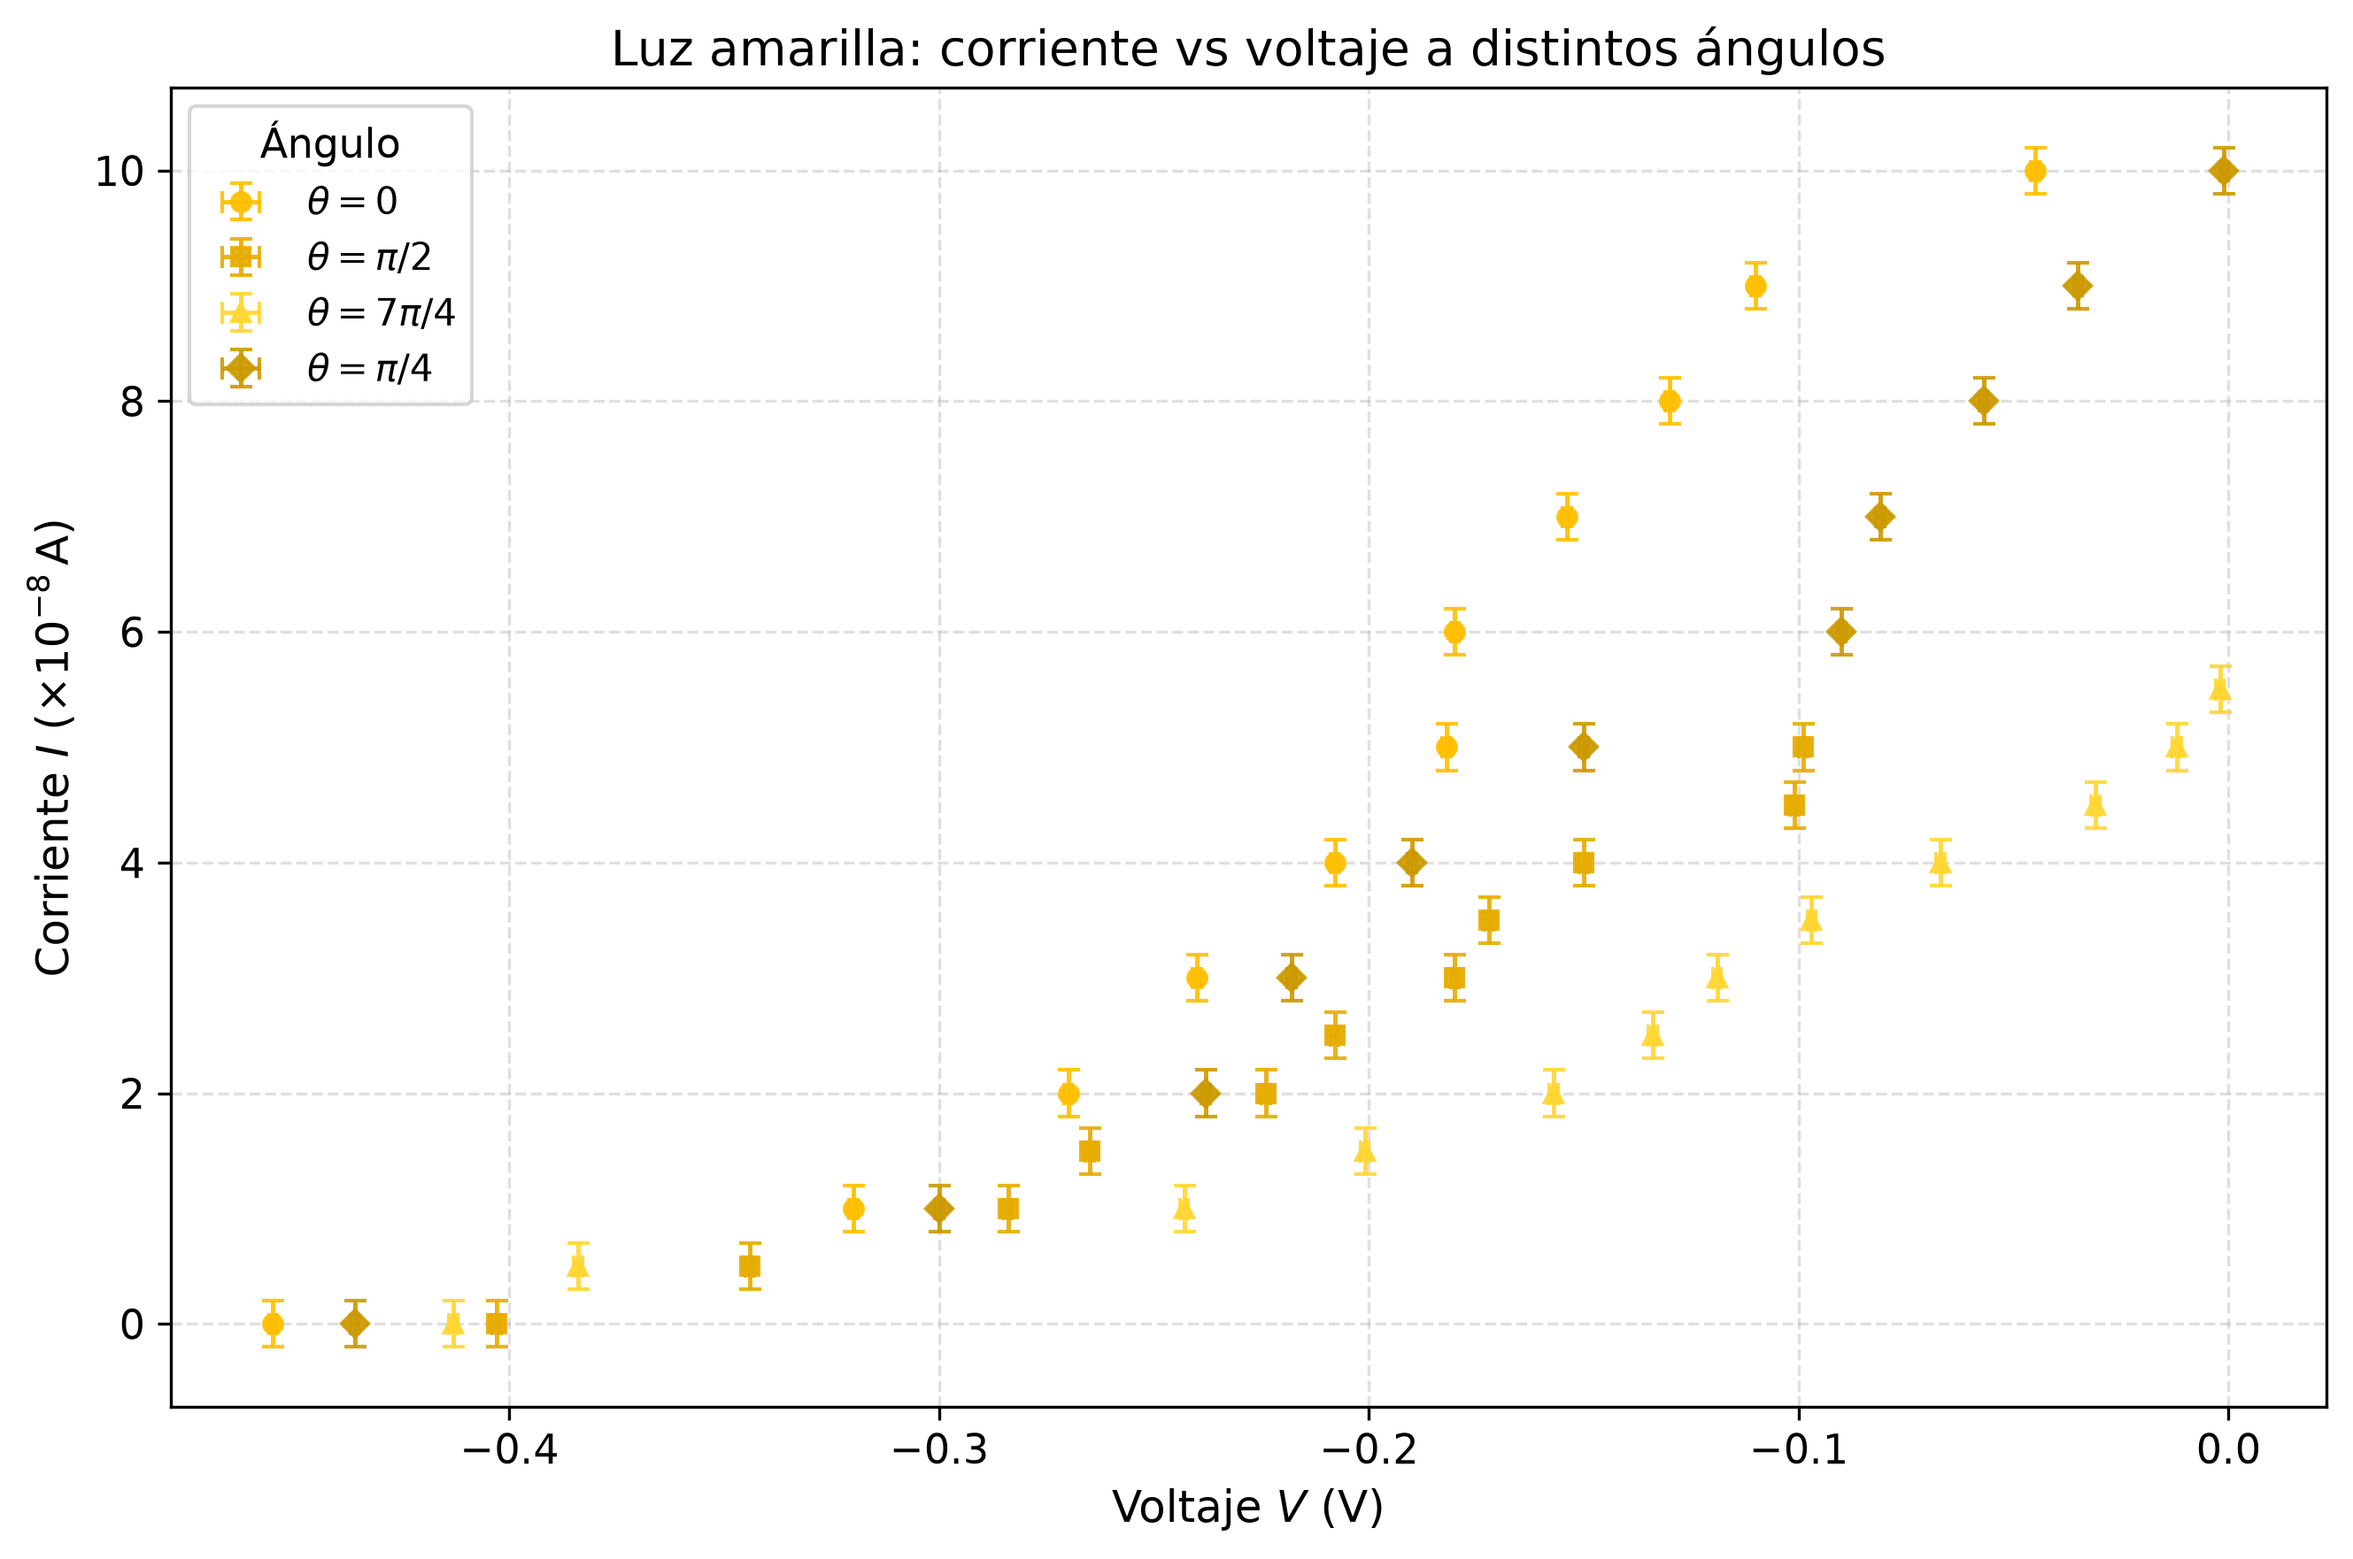
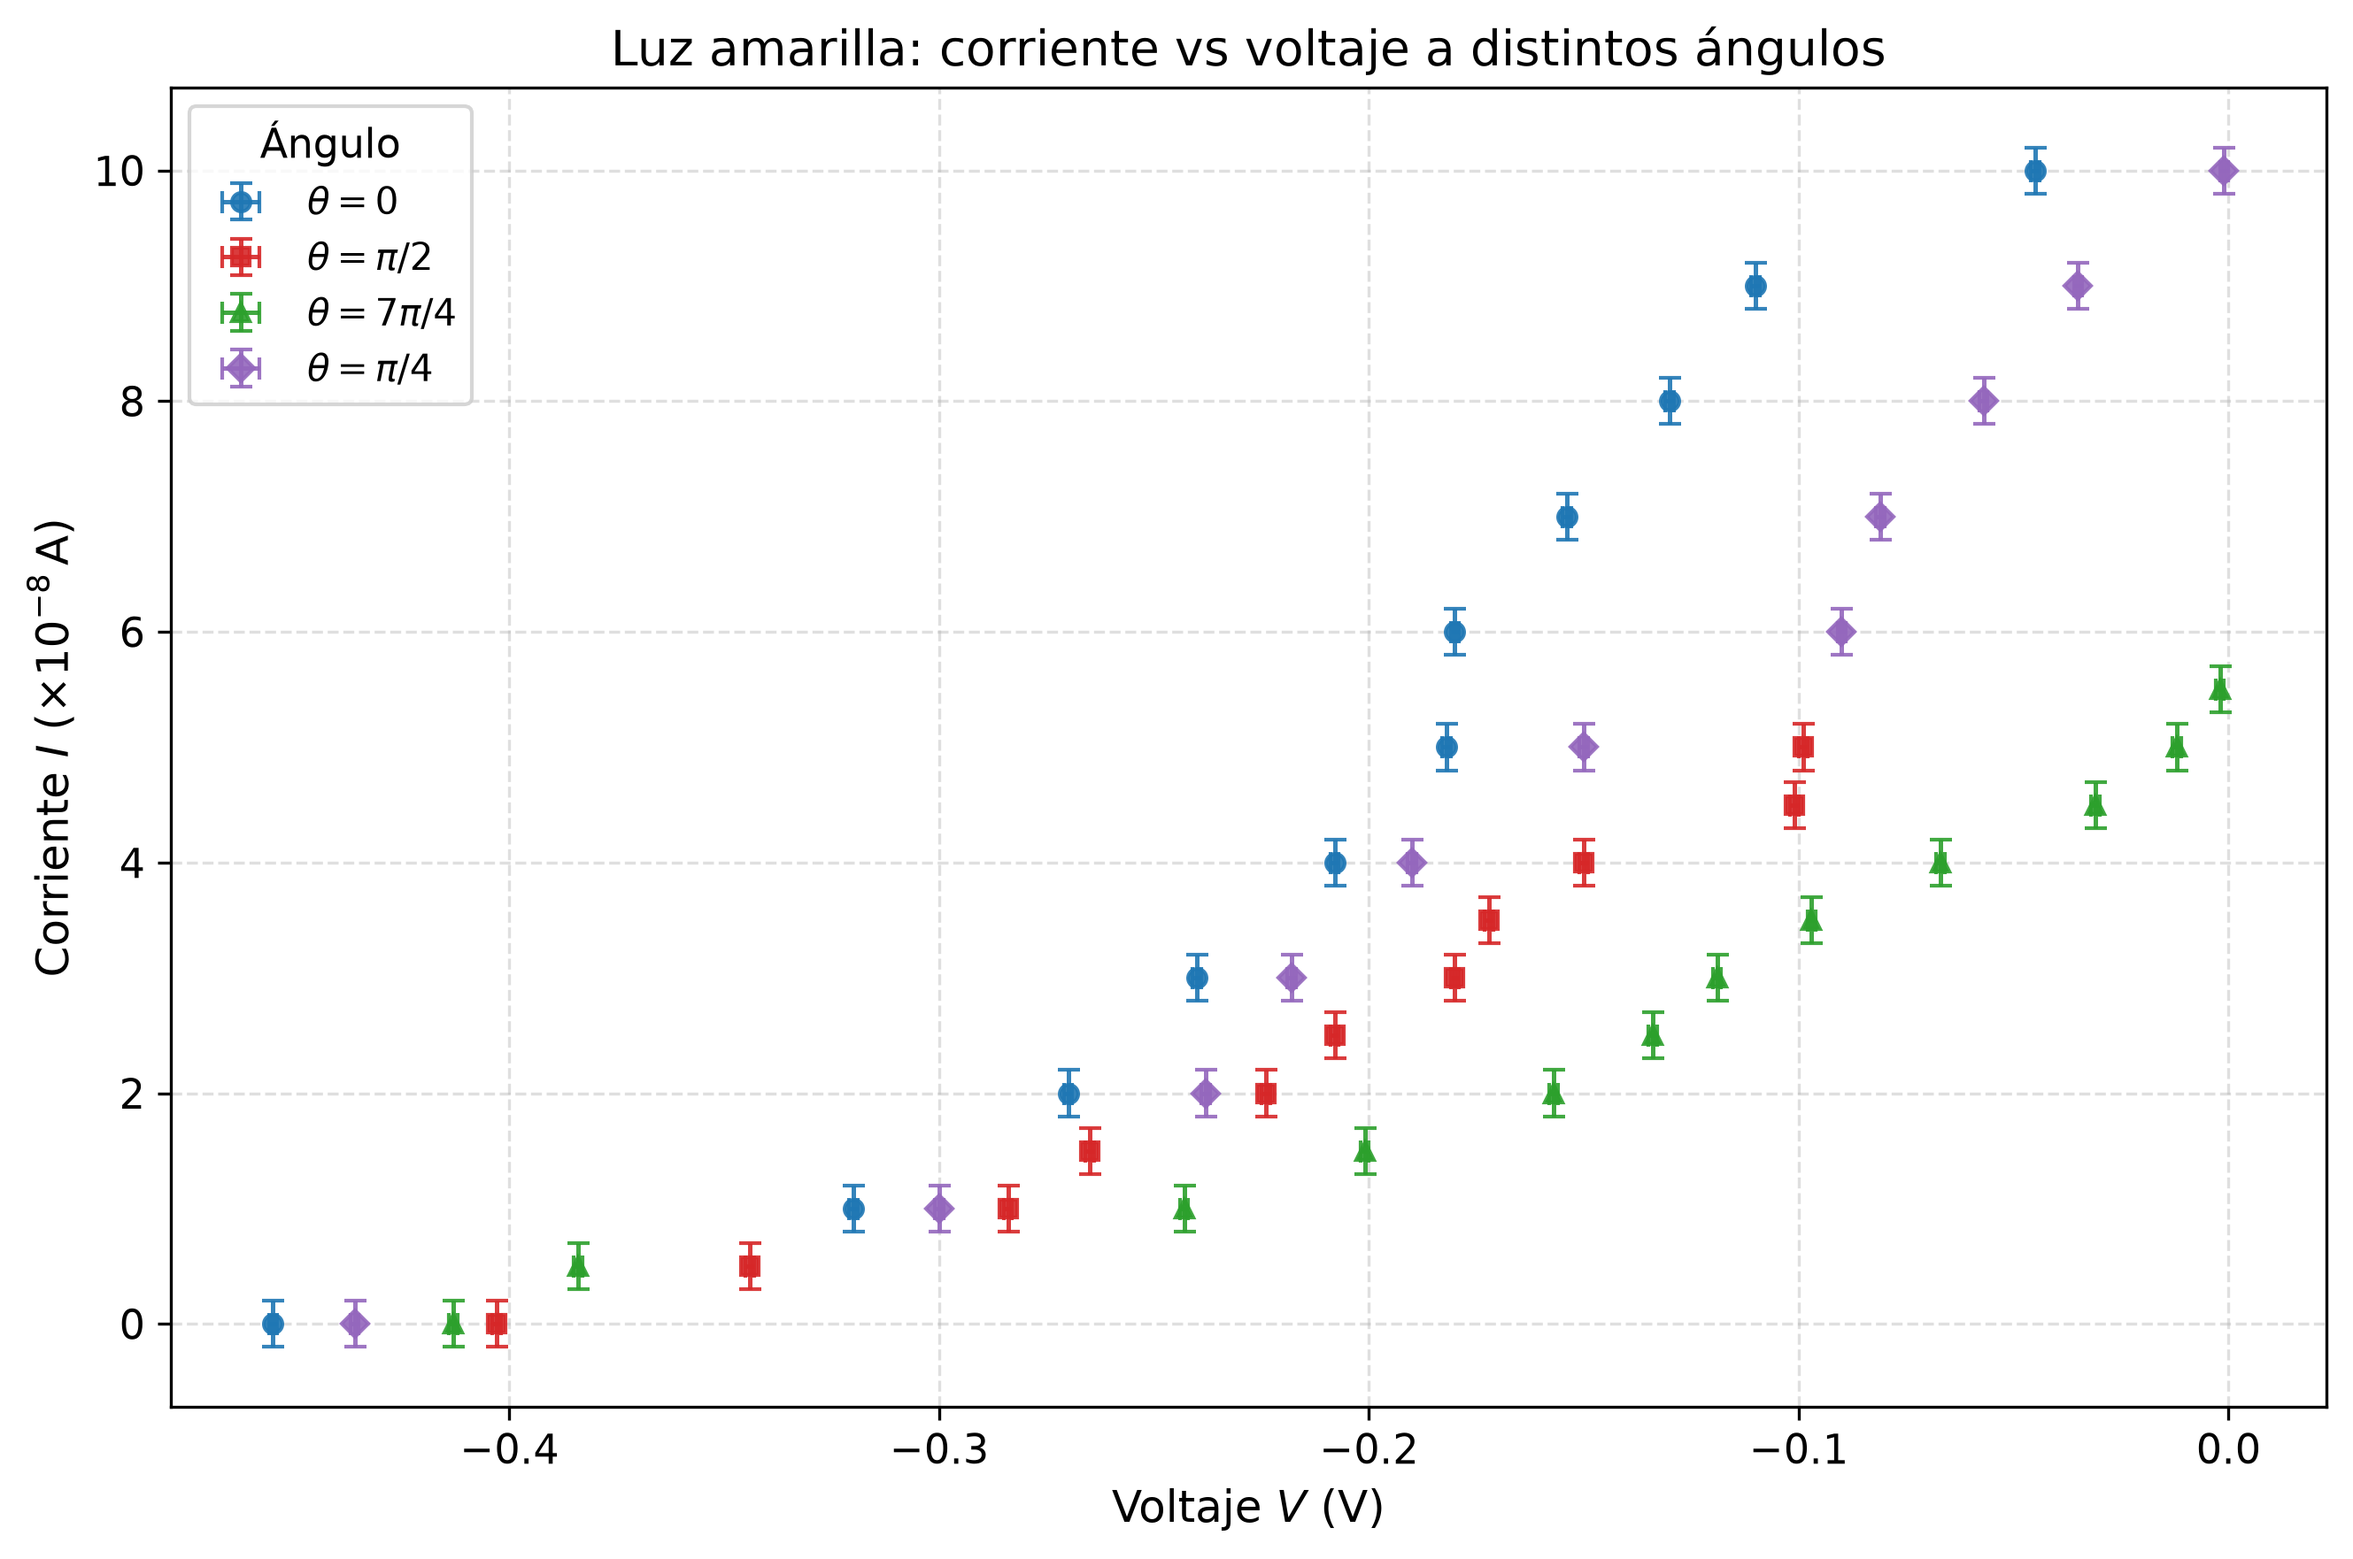
Usar colores más distinguibles en gráfica de ángulos.

diff --git a/grafica_amarillo_angulos.py b/grafica_amarillo_angulos.py
@@ -36,12 +36,12 @@ datos = {
     },
 }
 
-# Amarillo con distintos marcadores para cada ángulo
+# Colores y marcadores bien diferenciados para cada ángulo
 ESTILOS = {
-    r"$\theta = 0$": {"color": "#ffbf00", "marker": "o"},
-    r"$\theta = \pi/2$": {"color": "#e6ac00", "marker": "s"},
-    r"$\theta = 7\pi/4$": {"color": "#ffd633", "marker": "^"},
-    r"$\theta = \pi/4$": {"color": "#cc9900", "marker": "D"},
+    r"$\theta = 0$": {"color": "#1f77b4", "marker": "o"},       # azul
+    r"$\theta = \pi/2$": {"color": "#d62728", "marker": "s"},   # rojo
+    r"$\theta = 7\pi/4$": {"color": "#2ca02c", "marker": "^"},  # verde
+    r"$\theta = \pi/4$": {"color": "#9467bd", "marker": "D"},    # morado
 }
 
 plt.rcParams.update({
